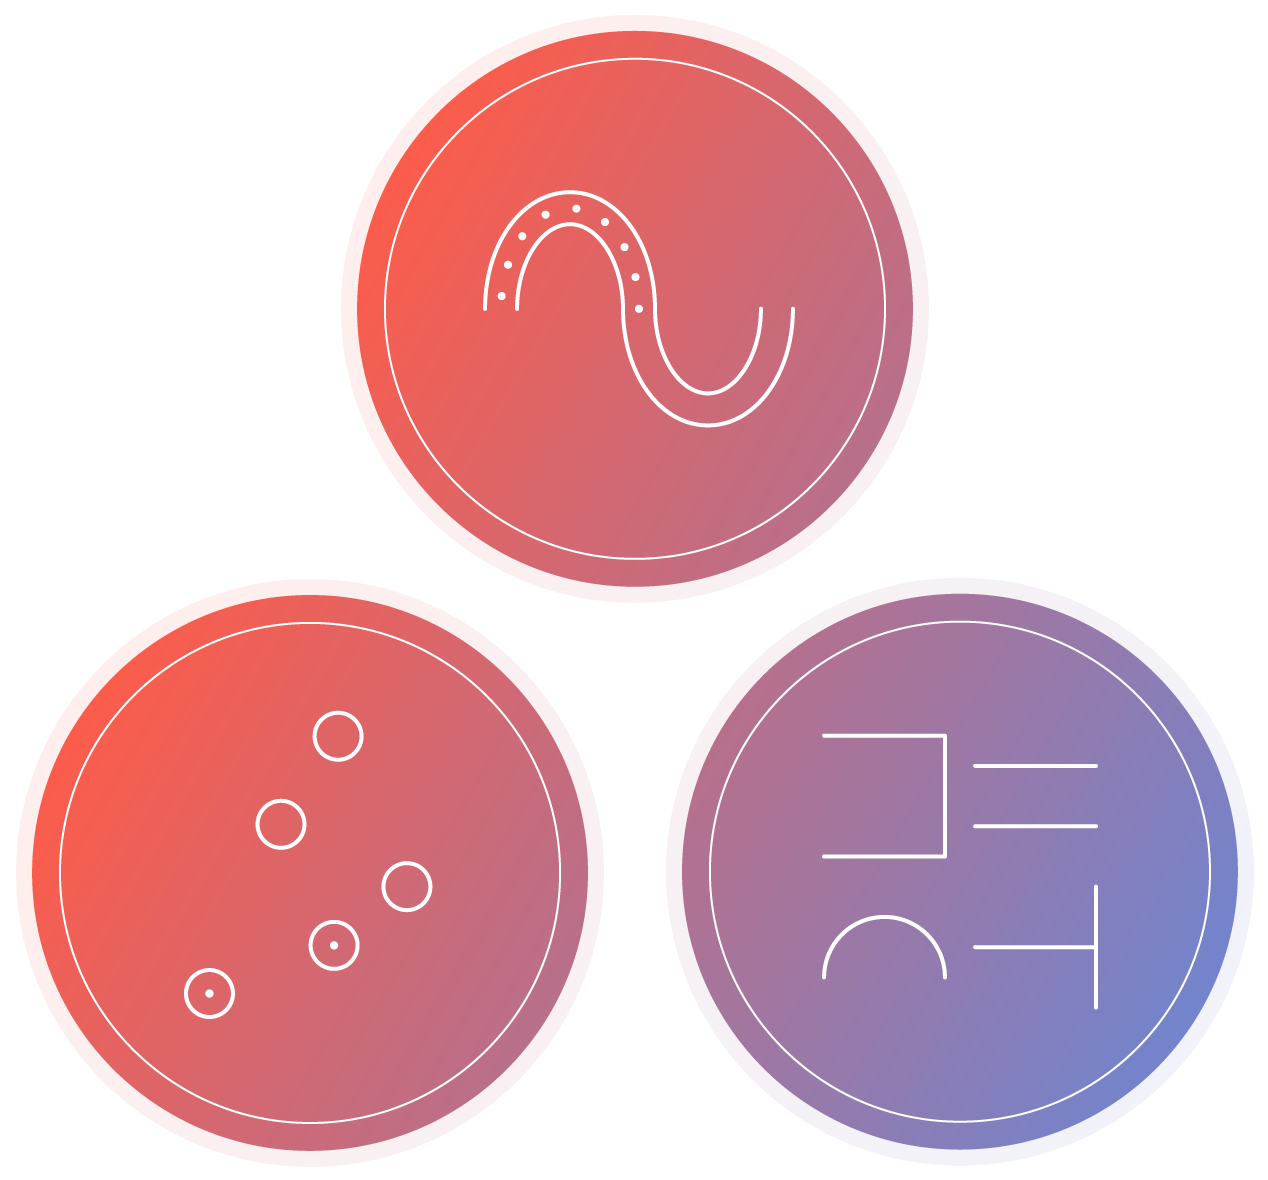
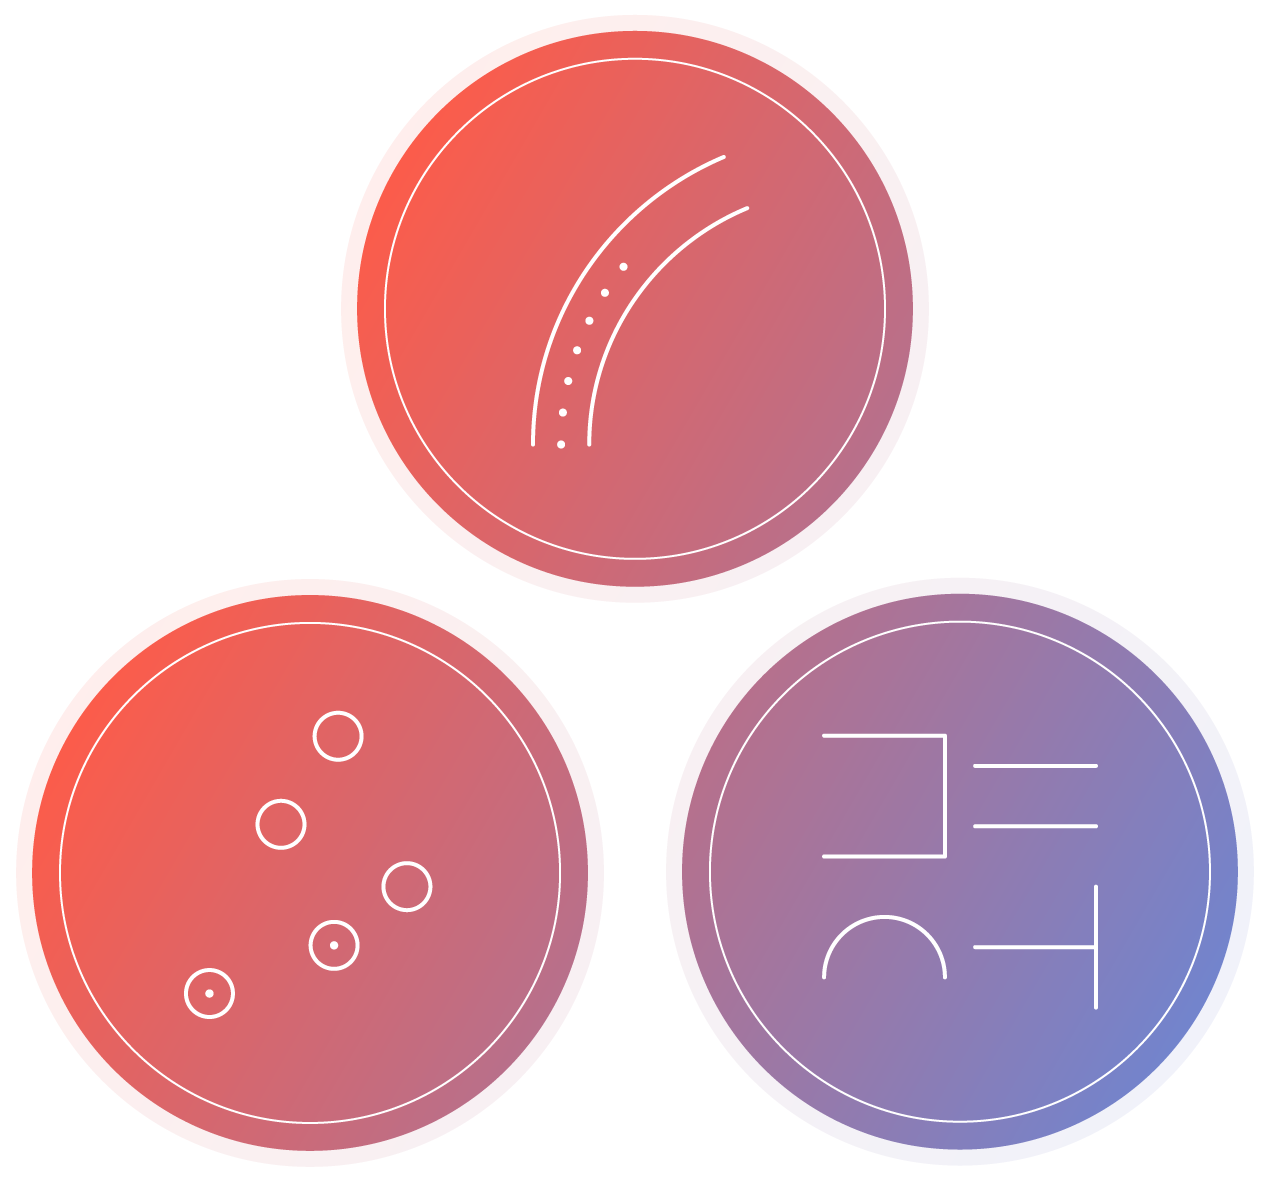
graphics + content changed

Changed region(s): [[0.3691, 0.1525, 0.6459, 0.3661], [0.3998, 0.3051, 0.4306, 0.3661]]

diff --git a/src/views/TakePart.vue b/src/views/TakePart.vue
@@ -53,24 +53,23 @@
   <div>
 
 
-    <app-content-section class="overflow-hidden">
-      <div class="background-wrapper background-wrapper-move-left scroll-effect scroll-effect-delayed-1">
-        <div class="content-wrapper">
-          <div class="row row-centered">
-            <div class="col col-tablet-portrait-10 col-large-6 col-wrapping">
-              <div class="extra-padding-h">
-                <img src="/img/graphic-calendar.png"/>
-              </div>
+    <app-content-section>
+      <div class="content-wrapper">
+        <div class="row row-centered row-middle row-wrapping">
+
+          <div class="col col-10 col-tablet-portrait-8 col-large-6 col-wrapping scroll-effect">
+            <div class="extra-padding-h">
+              <img src="/img/graphic-participate.png"/>
             </div>
           </div>
-        </div>
-      </div>
-      <div class="content-wrapper">
-        <div class="row row-wrapping">
-          <div class="col col-tablet-portrait-7 col-large-6 col-large-before-5 col-wrapping scroll-effect">
-            <h2 class="heading centered left-aligned-large">{{ $t('participating-heading') }}</h2>
-            <p v-html="$t('participating-text')"></p>
+
+          <div class="col col-large-5 col-large-after-1 col-wrapping scroll-effect scroll-effect-delayed-1">
+            <div>
+              <h2 class="heading centered left-aligned-large">{{ $t('participating-heading') }}</h2>
+              <p v-html="$t('participating-text')"></p>
+            </div>
           </div>
+
         </div>
       </div>
     </app-content-section>

diff --git a/src/views/Home.vue b/src/views/Home.vue
@@ -4,7 +4,7 @@
   "en": {
 
   "cover-heading": "Understanding<br>Multiple Sclerosis",
-  "cover-subheading": "Help Us by Doing<br>Tablet Exercises",
+  "cover-subheading": "Help Us by Doing Tablet Exercises",
   "cover-button-primary": "Take Part",
   "cover-button-secondary": "Learn more",
 
